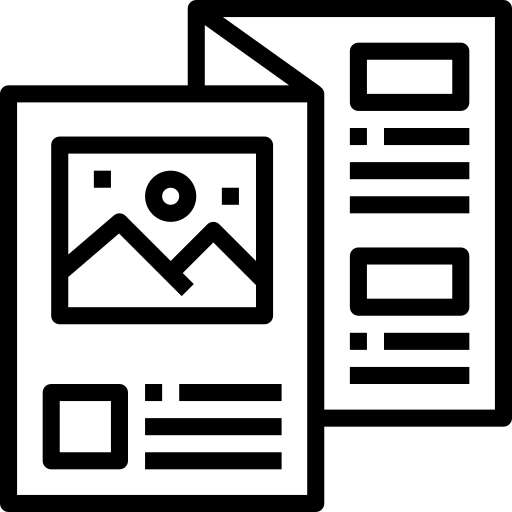
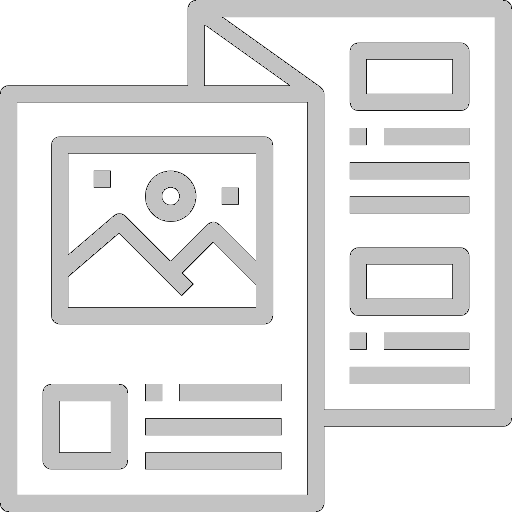
230310
자바스크립트 일부 추가

diff --git a/search.css b/search.css
@@ -86,7 +86,7 @@ a{
     height:150px;
 }
 
-.rbutton{
+#b1{
     width: 133px;
     height: 170px;
     margin-left: 30px;
@@ -95,7 +95,16 @@ a{
     font-size:18px;
     border-color:white;
 }
-.tbutton{
+
+#b1.clicked img{
+    content: url("images/식당\ 1.png");
+}
+
+#b1.clicked{
+    color:black;
+}
+
+#b2{
     width: 133px;
     height: 170px;
     margin-left:45px;
@@ -104,7 +113,16 @@ a{
     font-size:18px;
     border-color:white;
 }
-.cbutton{
+
+#b2.clicked img{
+    content: url("images/관광지\ 1.png");
+}
+
+#b2.clicked{
+    color:black;
+}
+
+#b3{
     width: 133px;
     height: 170px;
     margin-left:45px;
@@ -113,28 +131,33 @@ a{
     font-size:18px;
     border-color:white;
 }
-    
+
+#b3.clicked img{
+    content: url("images/카페\ 1.png");
+}
+
+#b3.clicked{
+    color:black;
+} 
+
 
 .restaurant{
     width: 115px;
     height: 115px;
     border:1px solid black;
     border-radius: 10px;
-    opacity: 20%;
 }
 .tourist{
     width: 115px;
     height: 115px;
     border:1px solid black;
     border-radius: 10px;
-    opacity: 20%;
 }
 .cafe{
     width: 115px;
     height: 115px;
     border:1px solid black;
     border-radius: 10px;
-    opacity: 20%;
 }
 
 .step2{

diff --git a/search.html b/search.html
@@ -46,17 +46,17 @@
         <!-- 장소의 타입 선택 -->
         <h3 class="step">STEP 1 장소의 타입 선택</h3>
         <section class="step1">
-            <button class="rbutton">
+            <button id="b1">
                 <img class="restaurant" src="images/식당 0.png">
                 <p>Restaurant</p>
             </button>
 
-            <button class="tbutton">
+            <button id="b2">
                 <img class="tourist" src="images/관광지 0.png">
                 <p>Tourist Spot</p>
             </button>
 
-            <button class="cbutton">
+            <button id="b3">
                 <img class="cafe" src="images/카페 0.png">
                 <p>Cafe</p>
             </button>
@@ -81,6 +81,6 @@
     <footer class="footer">
         <p>FOOTER</p>
     </footer>
+    <script src="search.js"></script>
 </body>
-<script src="search.js"></script>
 </html>

diff --git a/search.js b/search.js
@@ -1,0 +1,18 @@
+var rbutton=document.getElementById("b1")
+
+rbutton.addEventListener("click",function(){
+    rbutton.classList.add("clicked") 
+})
+
+var tbutton=document.getElementById("b2")
+
+tbutton.addEventListener("click",function(){
+    tbutton.classList.add("clicked") 
+})
+
+var cbutton=document.getElementById("b3")
+
+cbutton.addEventListener("click",function(){
+    cbutton.classList.add("clicked") 
+})
+
